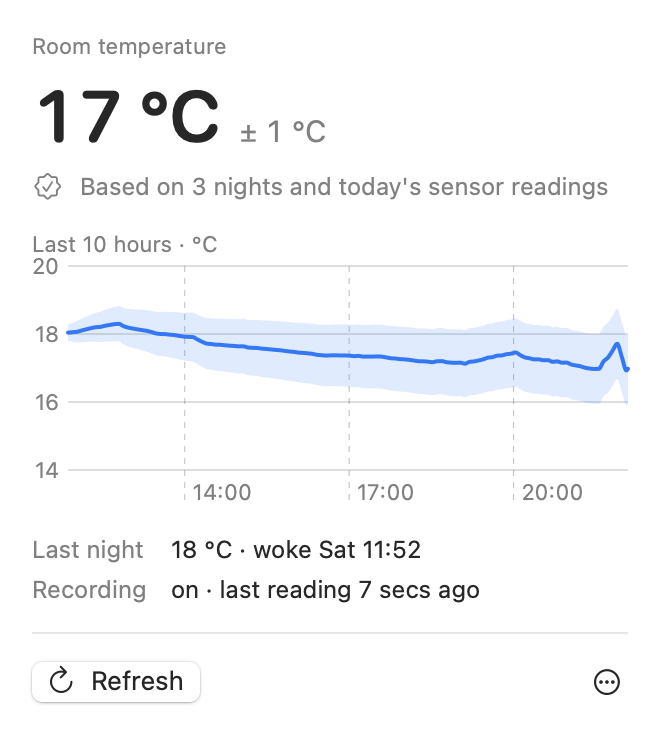
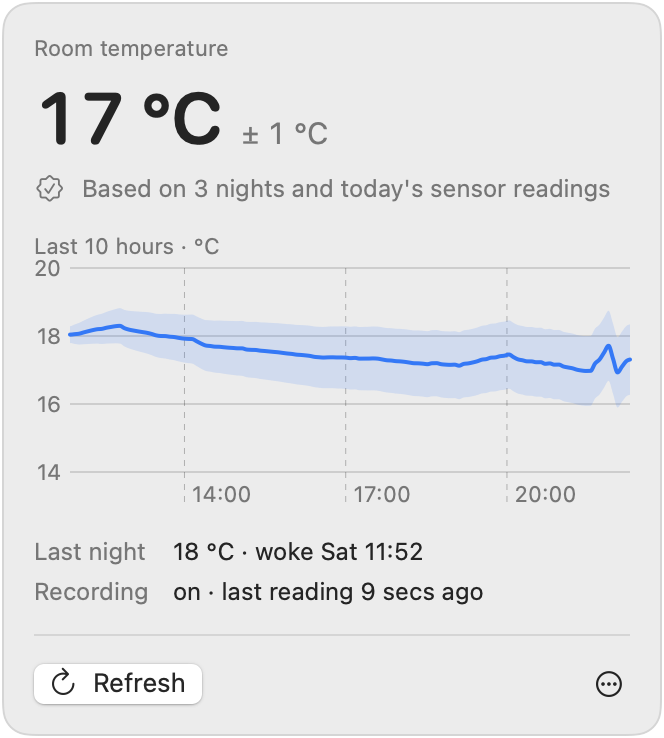
Render README screenshots with opaque framed background

diff --git a/Sources/ThermacBar/Snapshot.swift b/Sources/ThermacBar/Snapshot.swift
@@ -25,12 +25,21 @@ enum Snapshot {
 
     /// Hosts the view in a real (off-screen) window so native AppKit controls render too.
     private static func write(_ view: some View, dark: Bool, to url: URL) async {
-        let host = NSHostingView(rootView: view)
+        // Opaque panel background, rounded corners and a hairline border, so the image
+        // reads correctly on both light and dark pages (e.g. GitHub's themes).
+        let shape = RoundedRectangle(cornerRadius: 14, style: .continuous)
+        let framed = view
+            .background(Color(nsColor: .windowBackgroundColor))
+            .clipShape(shape)
+            .overlay(shape.strokeBorder(Color(nsColor: .separatorColor), lineWidth: 1))
+            .padding(1)
+        let host = NSHostingView(rootView: framed)
         let size = host.fittingSize
         let window = NSWindow(contentRect: NSRect(x: -20_000, y: -20_000, width: size.width, height: size.height),
                               styleMask: [.borderless], backing: .buffered, defer: false)
         window.appearance = NSAppearance(named: dark ? .darkAqua : .aqua)
-        window.backgroundColor = .windowBackgroundColor
+        window.backgroundColor = .clear
+        window.isOpaque = false
         window.contentView = host
         window.orderFrontRegardless()
         try? await Task.sleep(for: .milliseconds(800))      // let charts and controls lay out
